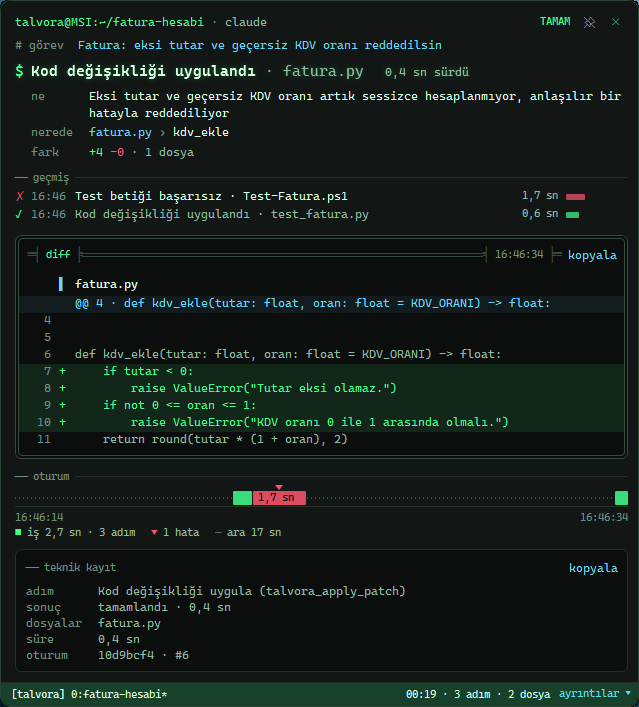
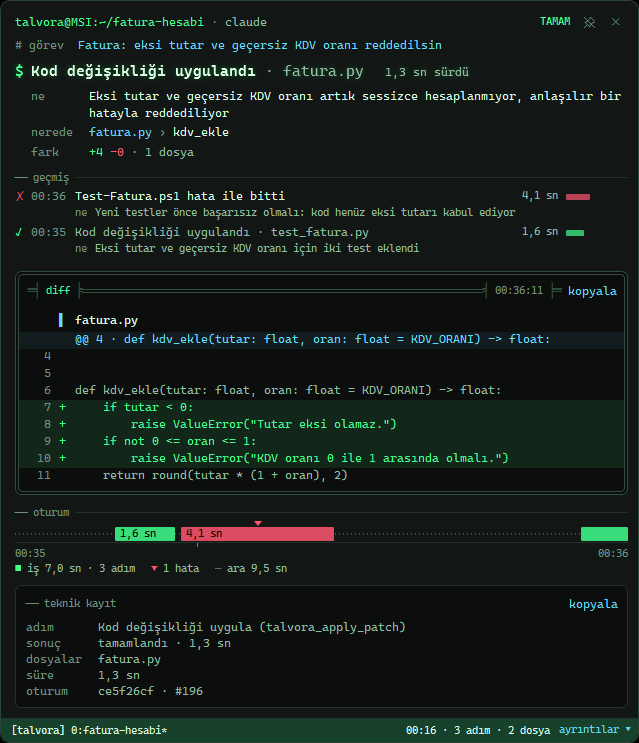
Talvora 0.0.1.3 sürüm notu hazır
Çalışma kartı düzeltmelerini içeren düzeltme sürümü; README'deki kart görüntüsü yenilendi.

Card: RELEASE

diff --git a/README.md b/README.md
@@ -30,21 +30,21 @@ Talvora arka planda bir Windows hizmeti olarak çalışır ve bu istemcilere MCP
 ## Bir ajan çalışırken
 
 <p align="center">
-  <img src="docs/media/kod-karti.png" alt="Masaüstündeki çalışma kartı: görev notu, ajanın yaptığı değişikliğin amacı, yeri ve gerçek farkı, önceki adımlar, altında oturumun zaman şeridi ve teknik kayıt." width="560">
+  <img src="docs/media/kod-karti.png" alt="Masaüstündeki çalışma kartı: görev notu, ajanın yaptığı değişikliğin amacı, yeri ve gerçek farkı, önceki adımlar ve her birinin açıklaması, altında oturumun zaman şeridi ve teknik kayıt." width="560">
 </p>
 
-Talvora'da en çok kullandığım parça bu kart. En üstte ajanın üzerinde çalıştığı görev, altında kendi cümlesiyle ne yaptığı ve nerede yaptığı yazar; ortada değişikliğin gerçek farkı durur, alttaki şerit de oturumun zamanını ölçtüğü kadarıyla gösterir. Oturum bitince her şey Kontrol Merkezi'ndeki Çalışma günlüğü'nde kalır; hangi projede kimin ne yaptığını, bir adım neden başarısız olduğunu sonradan da açıp bakabilirsin.
+Talvora'da en çok kullandığım parça bu kart. En üstte ajanın üzerinde çalıştığı görev, altında kendi cümlesiyle ne yaptığı ve nerede yaptığı yazar; ortada değişikliğin gerçek farkı durur, önceki adımlar da kendi açıklamalarıyla listede kalır; alttaki şerit oturumun zamanını ölçtüğü kadarıyla gösterir. Aynı anda iki projede iş varsa kart yalnızca bir adım başlarken ya da biterken el değiştirir. Oturum bitince her şey Kontrol Merkezi'ndeki Çalışma günlüğü'nde kalır; hangi projede kimin ne yaptığını, bir adım neden başarısız olduğunu sonradan da açıp bakabilirsin.
 
 <img src="docs/media/calisma-gunlugu.png" alt="Kontrol Merkezi, Çalışma günlüğü: solda oturumlar, sağda seçilen oturumun zaman çizelgesi ve kanıtları.">
 
 ## Kurulum
 
-En son sürümün kurulum dosyası [Releases](https://github.com/bingoweb/Talvora-MCP/releases/latest) sayfasında: şu an `Talvora-Kurulum-0.0.1.2.exe`. İndirip çalıştırman yeterli. Kurulum yönetici izni ister, Windows hizmetini, Kontrol Merkezi'ni ve Başlat menüsü kısayolunu yerleştirir; PowerShell 7 yoksa Microsoft'un resmi paketini indirip doğrulayarak onu da kurar. Gerekenler: Windows 10 ya da 11 (64 bit) ve yönetici yetkisi. Program dosyaları `C:\Program Files\Talvora` altına, kayıtlar ve ayarlar `C:\ProgramData\Talvora` altına gider; her şey yolundaysa `http://127.0.0.1:7676/healthz` adresi çalışan sürümü gösterir.
+En son sürümün kurulum dosyası [Releases](https://github.com/bingoweb/Talvora-MCP/releases/latest) sayfasında: şu an `Talvora-Kurulum-0.0.1.3.exe`. İndirip çalıştırman yeterli. Kurulum yönetici izni ister, Windows hizmetini, Kontrol Merkezi'ni ve Başlat menüsü kısayolunu yerleştirir; PowerShell 7 yoksa Microsoft'un resmi paketini indirip doğrulayarak onu da kurar. Gerekenler: Windows 10 ya da 11 (64 bit) ve yönetici yetkisi. Program dosyaları `C:\Program Files\Talvora` altına, kayıtlar ve ayarlar `C:\ProgramData\Talvora` altına gider; her şey yolundaysa `http://127.0.0.1:7676/healthz` adresi çalışan sürümü gösterir.
 
 Kurulum dosyası henüz imzalı değil. Windows bu yüzden ilk açılışta bir uyarı gösterebilir: **Ek bilgi**'ye, sonra **Yine de çalıştır**'a bas. İstersen önce dosyanın SHA-256 değerini aynı sayfadaki `SHA256SUMS.txt` ile karşılaştır:
 
 ```powershell
-Get-FileHash .\Talvora-Kurulum-0.0.1.2.exe -Algorithm SHA256
+Get-FileHash .\Talvora-Kurulum-0.0.1.3.exe -Algorithm SHA256
 ```
 
 Kaldırmak için Windows Ayarları'ndaki yüklü uygulamalar listesinde Talvora'yı seçip kaldır. Kontrol Merkezi'nden sonradan kurduğun ek bileşenler (Gitea, Penpot, ChatGPT tüneli) bu kaldırmaya dahil değildir.

diff --git a/docs/codex/STATUS.md b/docs/codex/STATUS.md
@@ -51,6 +51,7 @@ Legend: `[ ]` todo · `[x]` done · `[~]` done but waiting for user evidence · 
 
 ## Log
 
+- 2026-11-17 — Claude, release 0.0.1.3 prepared (user decision audit 65: cut at the audit after the card fixes): `docs/releases/0.0.1.3.md` (fix release: D88, D90, D91, D92, D92v, D93, D95, D98–D103, D104v, D105v), README version and a new `docs/media/kod-karti.png` taken from the live card (each history row with its "ne"); the Control Center history image predates D92v and stays until a Control Center pass. Verification follows in the next entry.
 - 2026-11-17 — Claude, audit 66 (user: "talvora modernizasyonunun önünü kesen durumlara izin verme. talvora yı denetle"; tag `audit/2026-11-17-66`; range `audit/2026-11-16-65..44b4e66`): D98, D100, D99, D101, D102, D103 and P-56 checked. Each commit stayed inside its Files, `noLookup` matches each card's "Context7: gerekmiyor", self-reviews present; no defect found (note for later cards: D100's folder-key list repeats `ResolveProject`'s, keep the two equal). CI green for every commit. Live on the installed 8389b20, card captured with window-guard (PrintWindow, nothing minimised): D102 the task note showed with the first step of a fresh session; D100 a folder-less command joined the open card (same session, 3 steps); D98 the code terminal came back after another project's step; D103 all three wrapped error lines in "sonuç"; D99 a step start or end took the card, and the followed CI's progress frames left another project's finished card alone for 85 s; D101 the followed CI read "GitHub denetimi sürüyor · 1 dk 47 sn", a new fact every ~34 s, never "Yanıt bekleniyor". All six `[x]`.
   P-56 answered by Claude's `[C]` D106 (de7d6b0, CI 43959569931); PK5 runs unchanged. User decisions (AGENTS.md → MODERNIZATION FLOW, CONTINUE PROTOCOL 4, 5 and stop conditions): the agent fixes defects of Talvora's own tooling inside a modernization item, applies open Dependabot PRs itself when the queue is empty (`DEP<n>`), and moves the SDK pin when Microsoft's servicing replaces the installed patch (`SDK<version>`; new card D107 makes that one script). Claude also corrected THIRD-PARTY-NOTICES' runtime packs (10.0.12 → 10.0.15, stale since SDK3), the CONTEXT7 map's Sqlite row (10.0.15) and added the NuGet row. Cleanup: compact_docs removed 9 finished cards and queue lines, Log entries before audit 65 removed; Obsidian inbox empty. Design ideas (not queued): the followed CI's "durum" repeats its title; while another session still runs, the card's tmux footer could list it as a second window.
 - 2026-11-17 — Claude, `[C]` D106 (audit 66; P-56; user: "talvora modernizasyonunun önünü kesen durumlara izin verme"): the notice step of `Apply-DependabotPr.ps1` moved to `scripts/Update-ThirdPartyNotices.ps1`. It updates list, table and heading entries (the `### DiffPlex 1.9.0` heading had stopped every Dependabot update since N3, 2026-10-22), adds a new package to the Microsoft list only when it is Microsoft's own MIT package (reserved prefix, nuspec author, license expression) and otherwise stops naming every package that needs a license review. RED: the new `tests/ThirdPartyNoticesUpdateRegression.ps1` failed on the old logic with the repository's own lock files ("no line for DiffPlex"); GREEN 5/5. Dry run of PR #22 in a scratch clone: `DRY RUN OK`, five Roslyn lines to 5.12.0. Context7 `/nuget/docs.microsoft.com-nuget` (license expression, folder layout, prefix reservation; new map row). `docs/MODERNIZATION-POLICY.md` describes the new rule. Executor: Claude.

diff --git a/docs/releases/0.0.1.3.md b/docs/releases/0.0.1.3.md
@@ -1,0 +1,21 @@
+Merhaba, ben Taylan. Bu bir düzeltme sürümü ve neredeyse tamamı masaüstündeki çalışma kartıyla ilgili. Talvora'yı en çok bu karttan izliyorum; bu sürümle kart, aynı anda birden çok iş yürürken de ne olup bittiğini doğru ve sakin anlatıyor.
+
+## Düzeltmeler
+
+- **Kart yerinde duruyor.** İki projede aynı anda iş varken kart, öteki oturumun her ara bildiriminde kapanıp yeniden açılıyordu. Artık yalnızca bir adım başlarken ya da biterken başka oturuma geçiyor ve bunu aynı pencerede yapıyor.
+- **Kod terminali kaybolmuyor.** Araya başka bir oturumun adımı girse bile her oturumun kod farkı kartta kalıyor.
+- **Klasörsüz komutlar doğru karta gidiyor.** Ajanın klasör belirtmeden çalıştırdığı komutlar ayrı bir kart açmıyor, aynı ajanın açık proje kartına katılıyor.
+- **İzlenen işler "Yanıt bekleniyor" demiyor.** Talvora'nın kendisinin takip ettiği GitHub denetimleri ve kurulumlar düzenli ilerleme bildiriyor; geçen süre her yoklamada güncelleniyor.
+- **Görev notu korunuyor.** Bir süre sessiz kalan oturuma yazılan görev notu artık silinmiyor, ilk adımla birlikte görünüyor.
+- **Hatalar eksiksiz.** Başarısız komutlarda gerçek hata satırı gösteriliyor; PowerShell'in birkaç satıra böldüğü uzun hata iletileri de kartta baştan sona okunuyor.
+- **Geçmiş daha okunur.** Kartın geçmiş satırlarında her adımın kendi açıklaması görünüyor. Kontrol Merkezi'ndeki Çalışma günlüğü de bir oturumu baştan sona, her adımın amacı ve ölçülen süresiyle anlatıyor.
+- **Kart simge durumuna küçülmüyor.** Bir şey kartı küçültse bile kart ince bir şerit olarak kaybolmuyor, odağı almadan yerine dönüyor.
+- **Dosya işlemleri doğru anlatılıyor.** Silinemeyen ya da hiç olmayan bir dosyanın silme kaydı doğru bildiriliyor, dosya işlemlerinin başlıkları düzeltildi. Proje talimatı (AGENTS.md) olmayan bir klasörde ajan boş bir özet yerine ne yapması gerektiğini öğreniyor.
+
+## Bilinen sorunlar
+
+- Kurulum dosyası henüz imzalı değil, bu yüzden Windows ilk açılışta bir uyarı gösterebilir. **Ek bilgi**'ye, sonra **Yine de çalıştır**'a basman yeterli. İstersen önce dosyanın SHA-256 değerini bu sayfadaki `SHA256SUMS.txt` ile karşılaştırabilirsin.
+
+---
+
+**In English:** A fix release, almost entirely for the desktop work card. With work running in two projects at once, the card now changes session only when a step starts or ends, in the same window, and every session keeps its code view. Commands an agent runs without a folder join its open project card, GitHub checks and deployments that Talvora follows report progress instead of showing "waiting for a reply", a task note survives a quiet session, failed commands show their real error line in full, every history row shows its step's purpose, and the card can no longer be minimized into a thin strip. Delete receipts and file operation titles are corrected, and a folder without project instructions now gets guidance instead of an empty brief. The installer is still unsigned, so compare it with `SHA256SUMS.txt`.
